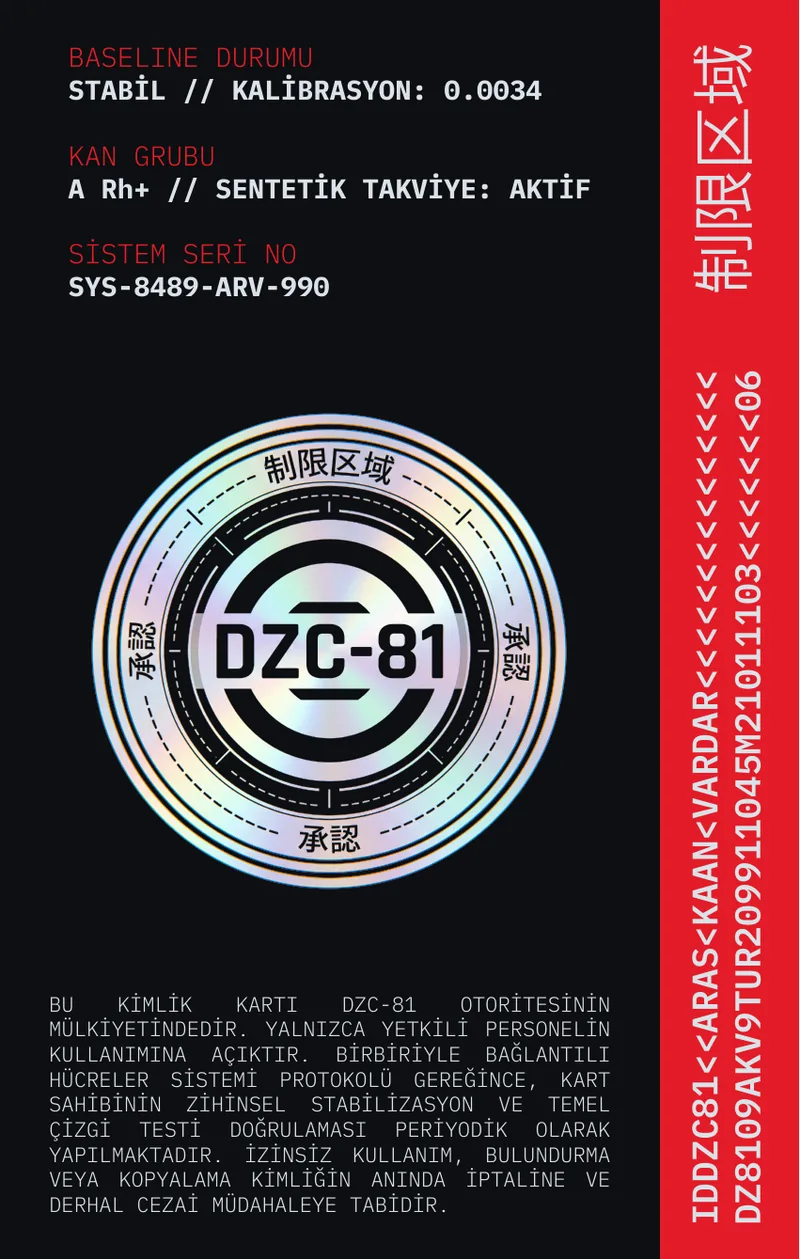
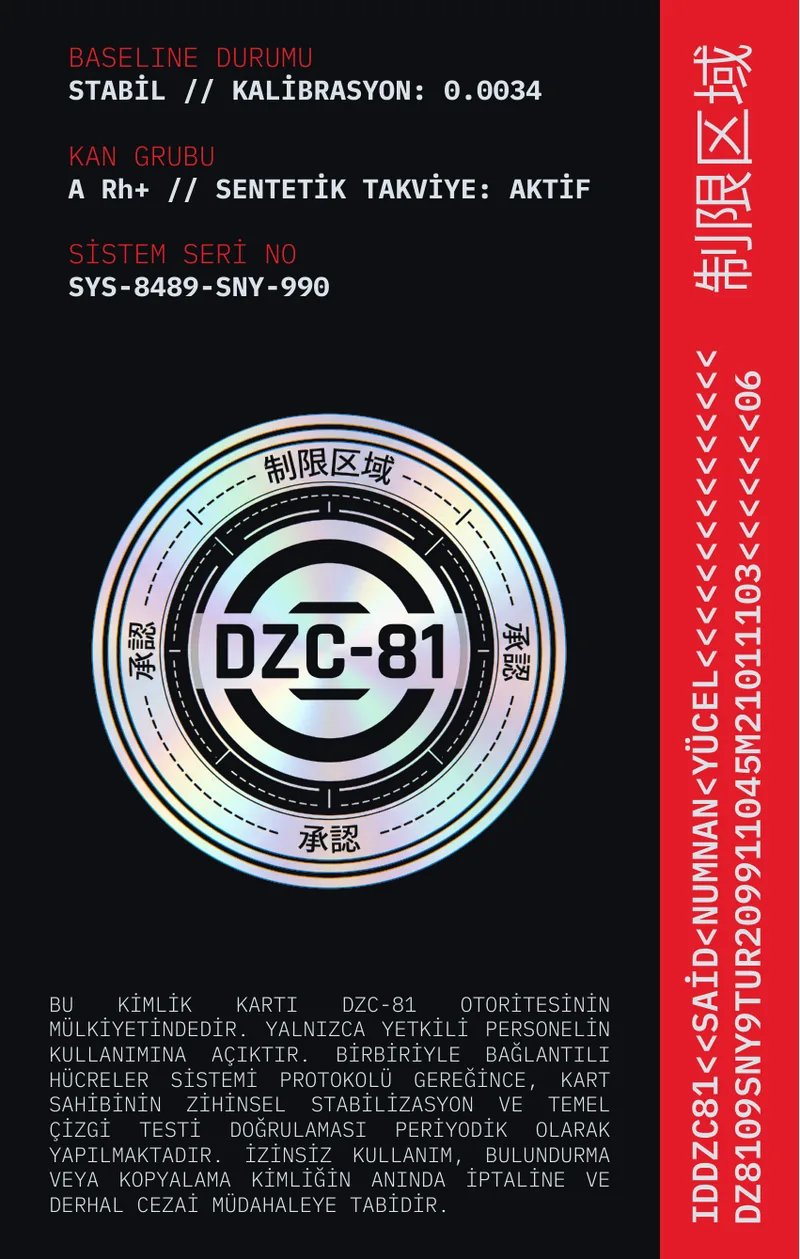
Kimlik kartının düzeltilmiş versiyonunu kullan (SYS-8489-SNY-990)
Claude-Session: https://claude.ai/code/session_01D3MxqNAdE1HiNZN4o3ZMJm

Changed region(s): [[0.8438, 0.5266, 0.9688, 0.8674], [0.25, 0.2168, 0.3438, 0.2478], [0.875, 0.2788, 0.9062, 0.3098]]

diff --git a/app.js b/app.js
@@ -126,7 +126,7 @@ NAMED.SAID.photo=false;
 const SAID={id:'DZC-8109-SNY',name:'SAİD NUMAN YÜCEL',short:'YÜCEL, SAİD N.',given:'SAİD NUMAN',sur:'YÜCEL',photo:true,
   img:'assets/yolcu/said-numan-yucel.webp',sigTxt:'Sny',docs:true,named:true,
   dept:'SİSMİK KALİBRASYON VE ALTYAPI DENETİMİ',
-  fields:[['GÖREV','BAŞ TEKNİKER / FAZ-2'],['YETKİ DÜZEYİ','SEVİYE 4 · KISITLI BÖLGE'],['KAN GRUBU','A Rh+'],['SENTETİK TAKVİYE','AKTİF'],['SİSTEM SERİ NO','SYS-8489-ARV-990'],['GEÇERLİLİK','2099.11.04 – 2101.11.03']],
+  fields:[['GÖREV','BAŞ TEKNİKER / FAZ-2'],['YETKİ DÜZEYİ','SEVİYE 4 · KISITLI BÖLGE'],['KAN GRUBU','A Rh+'],['SENTETİK TAKVİYE','AKTİF'],['SİSTEM SERİ NO','SYS-8489-SNY-990'],['GEÇERLİLİK','2099.11.04 – 2101.11.03']],
   zones:[1,-1,1,0,1,1,-1,-1],dev:.0034,face:98.6,route:['DZC-81','IST-34'],dep:'17.50',arr:'18.20',
   mrz:mkMrz('SAİD NUMAN','YÜCEL','DZC-8109-SNY','20991104M21011103'),nx:0,rations:3};
 const rtStr=r=>r[0]==='DZC-81'?'DZC-81 → '+r[1]:r[0]+' → DZC-81 → '+r[1];
@@ -339,7 +339,7 @@ const SCAN={
     {t:'ARKA YÜZ',img:'assets/urunler/kimlik-arka.webp',f:[
       ['BASELINE DURUMU','STABİL · 0.0034',[7,3.5,70,8.3]],
       ['KAN GRUBU / TAKVİYE','A Rh+ · AKTİF',[7,11.2,76,16.3]],
-      ['SİSTEM SERİ NO','SYS-8489-ARV-990',[7,18.8,44,24]],
+      ['SİSTEM SERİ NO','SYS-8489-SNY-990',[7,18.8,44,24]],
       ['HOLOGRAM MÜHÜR','承認 · GEÇERLİ',[11,32.5,71,71]]]}],
     sum:()=>[['YÜZ EŞLEŞME',fmt(cur.face,1)+'%'],['BİYOMETRİK İMZA',cur.sigTxt||'—']],
     done:'Özgün personel kartı OCR ile okundu · 10/10 alan kayıtla eşleşti'}

diff --git a/urunler.html b/urunler.html
@@ -287,7 +287,7 @@ const P=[
  tag:'DZC-81 otoritesinin mülkiyetindeki, yalnızca yetkili personele açık erişim kartı.',
  desc:['Kart sahibinin zihinsel stabilizasyonu ve Temel Çizgi Testi doğrulaması periyodik olarak yapılır; baseline durumu kartın üzerinde yazar. İzinsiz kullanım, bulundurma veya kopyalama kimliğin anında iptaline yol açar.',
  'Ön yüzde kırmızı bant, daire içinde vesikalık ve el yazısı imza; arka yüzde holografik DZC-81 mührü ve dikey MRZ satırları bulunur.'],
- kv:[['PERSONEL KODU','DZC-8109-SNY'],['DEPARTMAN','Sismik Kalibrasyon ve Altyapı Denetimi'],['GÖREV','Baş Tekniker / Faz-2'],['YETKİ DÜZEYİ','Seviye 4 · Kısıtlı bölge'],['GEÇERLİLİK','2099.11.04 – 2101.11.03'],['BASELINE','Stabil · kalibrasyon 0.0034'],['SİSTEM SERİ NO','SYS-8489-ARV-990'],['ÖLÇÜ','54 × 85 mm · çift yüz']],
+ kv:[['PERSONEL KODU','DZC-8109-SNY'],['DEPARTMAN','Sismik Kalibrasyon ve Altyapı Denetimi'],['GÖREV','Baş Tekniker / Faz-2'],['YETKİ DÜZEYİ','Seviye 4 · Kısıtlı bölge'],['GEÇERLİLİK','2099.11.04 – 2101.11.03'],['BASELINE','Stabil · kalibrasyon 0.0034'],['SİSTEM SERİ NO','SYS-8489-SNY-990'],['ÖLÇÜ','54 × 85 mm · çift yüz']],
  warn:'İZİNSİZ KULLANIM KİMLİĞİN ANINDA İPTALİNE VE CEZAİ MÜDAHALEYE TABİDİR.',
  term:'BÖLÜM 01 · KİMLİK / YETKİ',
  img:[{s:'kimlik-on.webp',t:'ÖN YÜZ',flat:1},{s:'kimlik-arka.webp',t:'ARKA YÜZ',flat:1}]}

diff --git a/index.html b/index.html
@@ -268,6 +268,6 @@
 <script src="sectors.js?v=22"></script>
 <script src="signature.js?v=22"></script>
 <script src="portrait.js?v=25"></script>
-<script src="app.js?v=25"></script>
+<script src="app.js?v=26"></script>
 </body>
 </html>
